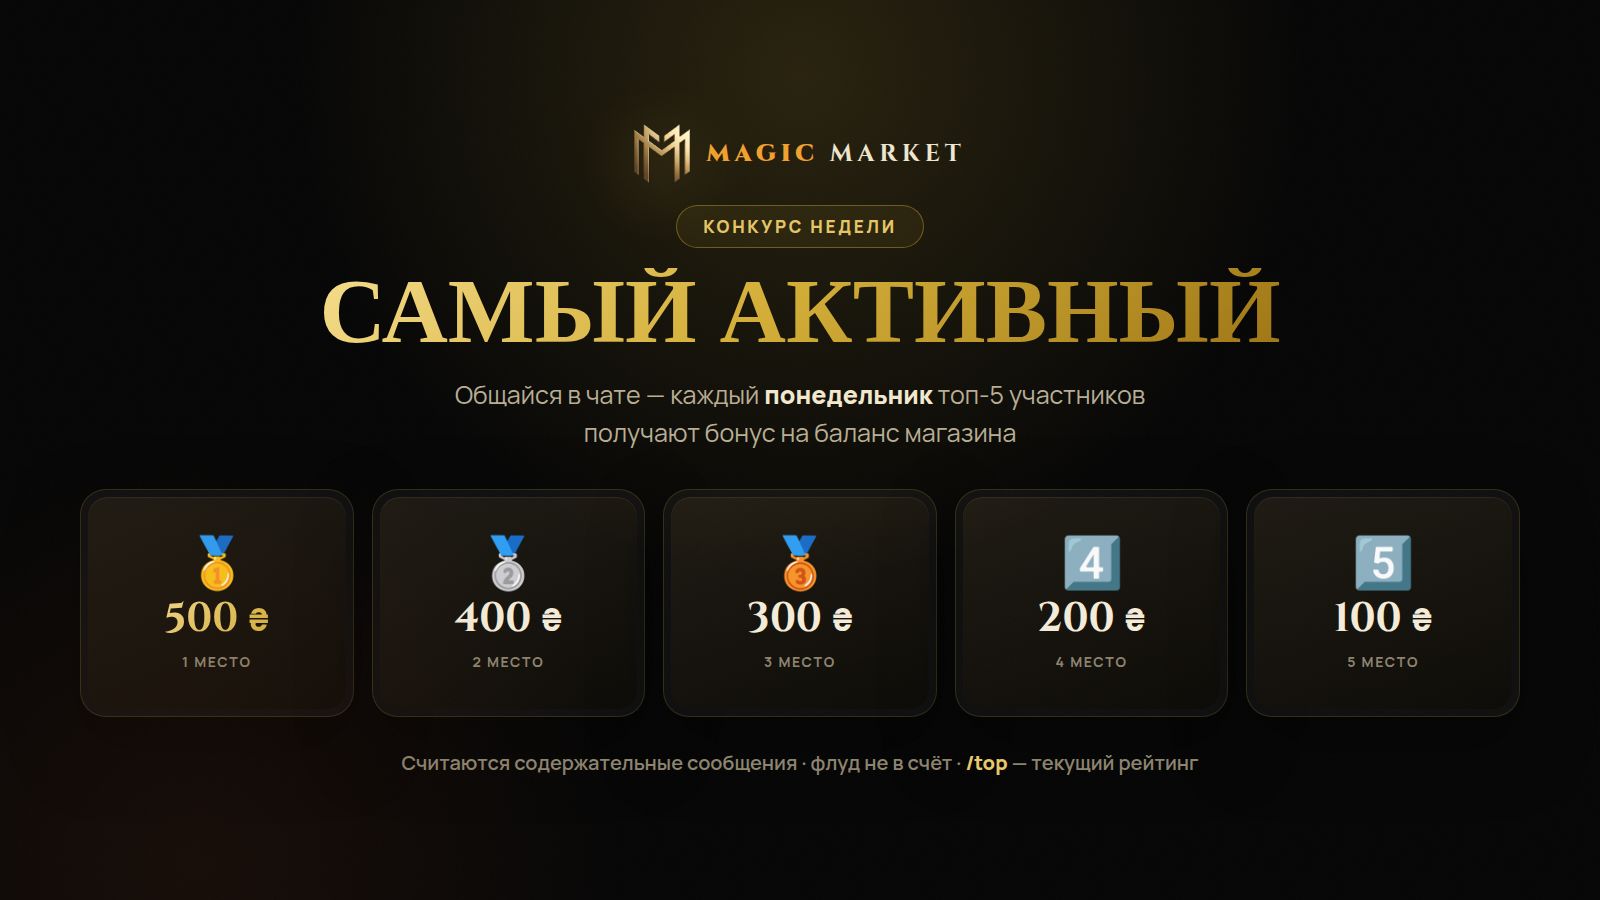
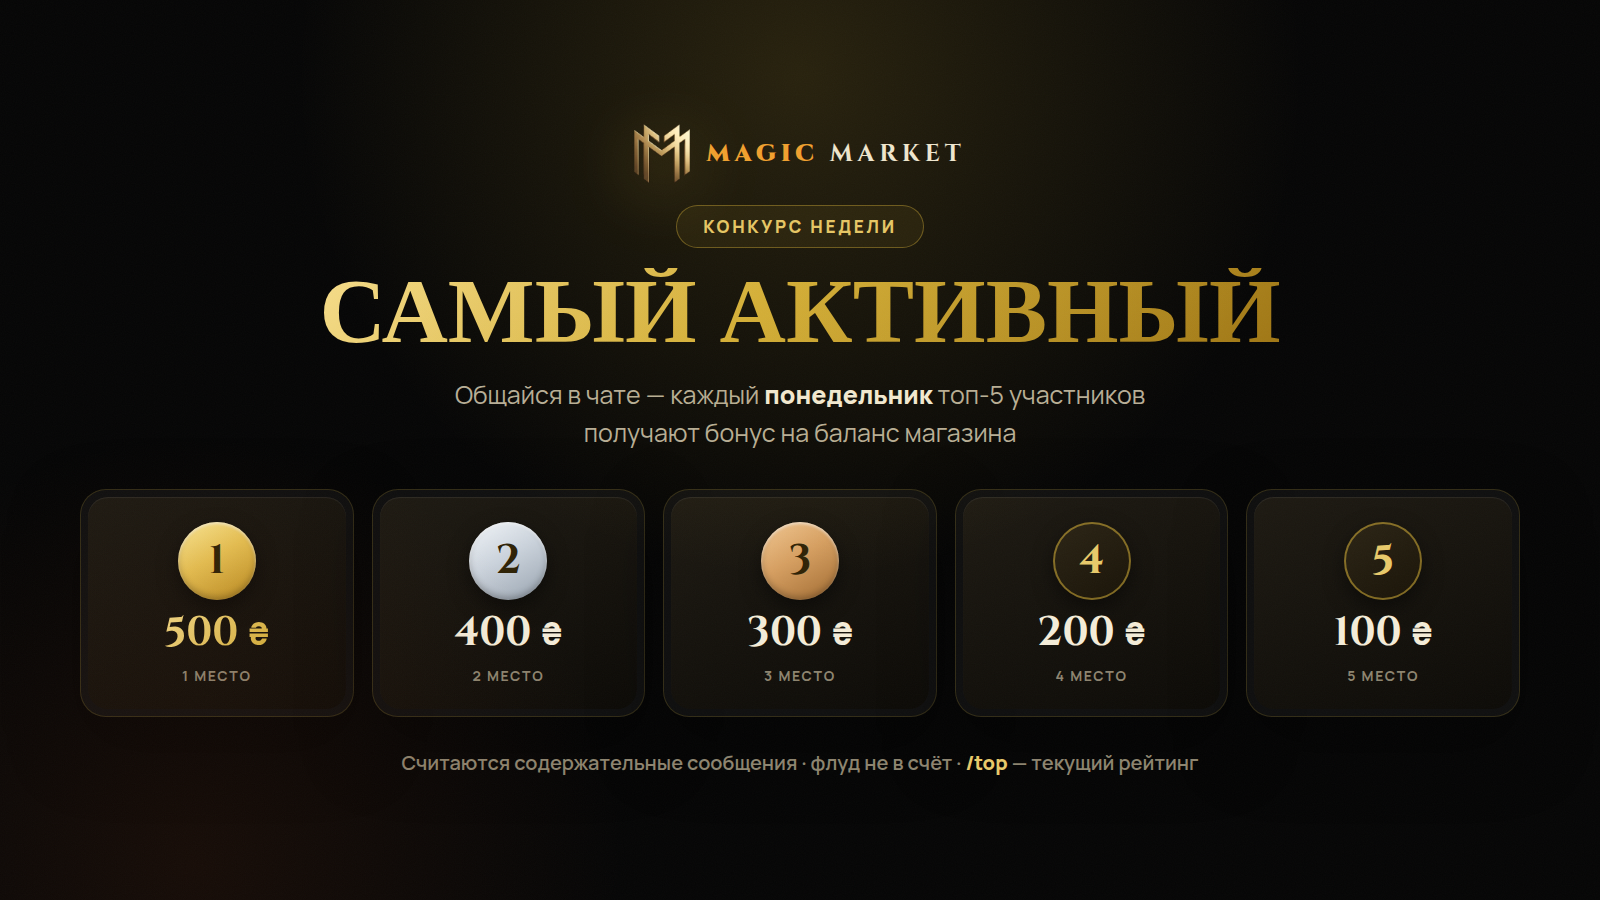
Баннеры активности: цифры вместо эмодзи-медалей и клавиш-цифр (#152)
Заменил эмодзи 🥇🥈🥉4⃣5⃣ на аккуратные металлические кружки с обычными
цифрами (золото/серебро/бронза для 1-3, тёмные с золотым ободком для 4-5) —
и на промо-баннере конкурса, и на баннере итогов недели.

Claude-Session: https://claude.ai/code/session_01Y1zXFtLJnFv2zuHb58MY2K

diff --git a/promo/src/banner_contest.html b/promo/src/banner_contest.html
@@ -26,7 +26,14 @@ body{width:1600px;height:900px;overflow:hidden;position:relative;font-family:'Ma
   box-shadow:0 28px 66px rgba(0,0,0,.5)}
 .core{height:212px;border-radius:20px;background:linear-gradient(160deg,rgba(30,26,18,.94),rgba(12,10,6,.94));
   box-shadow:inset 0 1px 1px rgba(255,255,255,.08);display:flex;flex-direction:column;align-items:center;justify-content:center;gap:6px}
-.medal{font-size:50px;line-height:1}
+.badge{width:78px;height:78px;border-radius:50%;display:flex;align-items:center;justify-content:center;
+  font-family:'Cinzel',serif;font-weight:800;font-size:40px;line-height:1;color:#2e2205;
+  box-shadow:0 8px 20px rgba(0,0,0,.5),inset 0 2px 3px rgba(255,255,255,.55),inset 0 -3px 6px rgba(0,0,0,.25)}
+.b1{background:linear-gradient(150deg,#fce996,#e6c052 45%,#b98a1f)}
+.b2{background:linear-gradient(150deg,#f3f6f9,#cbd3dc 45%,#97a2ae)}
+.b3{background:linear-gradient(150deg,#f2c894,#d69f61 45%,#a06a30)}
+.b4,.b5{background:linear-gradient(150deg,#2b2415,#191307);color:#e8c96a;
+  box-shadow:0 8px 20px rgba(0,0,0,.5),inset 0 0 0 2px rgba(212,175,55,.55)}
 .sum{font-family:'Cinzel',serif;font-weight:800;font-size:40px;color:#f4ecd8;white-space:nowrap}
 .cur{font-family:'Manrope',sans-serif;font-weight:800;font-size:.82em}  /* ₴ в засечках выглядит плохо */
 .place{font-size:14px;letter-spacing:.12em;text-transform:uppercase;color:#8d846f;font-weight:700}
@@ -44,19 +51,19 @@ body{width:1600px;height:900px;overflow:hidden;position:relative;font-family:'Ma
 
 <div class="prizes">
   <div class="shell"><div class="core gold">
-    <div class="medal">🥇</div><div class="sum">500 <span class="cur">₴</span></div><div class="place">1 место</div>
+    <div class="badge b1">1</div><div class="sum">500 <span class="cur">₴</span></div><div class="place">1 место</div>
   </div></div>
   <div class="shell"><div class="core">
-    <div class="medal">🥈</div><div class="sum">400 <span class="cur">₴</span></div><div class="place">2 место</div>
+    <div class="badge b2">2</div><div class="sum">400 <span class="cur">₴</span></div><div class="place">2 место</div>
   </div></div>
   <div class="shell"><div class="core">
-    <div class="medal">🥉</div><div class="sum">300 <span class="cur">₴</span></div><div class="place">3 место</div>
+    <div class="badge b3">3</div><div class="sum">300 <span class="cur">₴</span></div><div class="place">3 место</div>
   </div></div>
   <div class="shell"><div class="core">
-    <div class="medal">4⃣</div><div class="sum">200 <span class="cur">₴</span></div><div class="place">4 место</div>
+    <div class="badge b4">4</div><div class="sum">200 <span class="cur">₴</span></div><div class="place">4 место</div>
   </div></div>
   <div class="shell"><div class="core">
-    <div class="medal">5⃣</div><div class="sum">100 <span class="cur">₴</span></div><div class="place">5 место</div>
+    <div class="badge b5">5</div><div class="sum">100 <span class="cur">₴</span></div><div class="place">5 место</div>
   </div></div>
 </div>
 

diff --git a/promo/src/banner_award.html b/promo/src/banner_award.html
@@ -24,7 +24,14 @@ body{width:1600px;height:900px;overflow:hidden;position:relative;font-family:'Ma
 .row{position:absolute;left:96px;width:760px;height:70px;display:flex;align-items:center;gap:16px;
   background:rgba(255,255,255,.045);border:1px solid rgba(212,175,55,.18);border-radius:18px;
   padding:0 24px;box-shadow:inset 0 1px 1px rgba(255,255,255,.07)}
-.row .m{font-size:32px;line-height:1}
+.badge{width:52px;height:52px;flex:none;border-radius:50%;display:flex;align-items:center;justify-content:center;
+  font-family:'Cinzel',serif;font-weight:800;font-size:27px;line-height:1;color:#2e2205;
+  box-shadow:0 4px 11px rgba(0,0,0,.45),inset 0 1px 2px rgba(255,255,255,.55),inset 0 -2px 5px rgba(0,0,0,.25)}
+.b1{background:linear-gradient(150deg,#fce996,#e6c052 45%,#b98a1f)}
+.b2{background:linear-gradient(150deg,#f3f6f9,#cbd3dc 45%,#97a2ae)}
+.b3{background:linear-gradient(150deg,#f2c894,#d69f61 45%,#a06a30)}
+.b4,.b5{background:linear-gradient(150deg,#2b2415,#191307);color:#e8c96a;
+  box-shadow:0 4px 11px rgba(0,0,0,.45),inset 0 0 0 2px rgba(212,175,55,.55)}
 .row .s{margin-left:auto;font-family:'Cinzel',serif;font-weight:800;font-size:28px;color:#f4ecd8}
 .cur{font-family:'Manrope',sans-serif;font-weight:800;font-size:.82em}  /* ₴ в засечках выглядит плохо */
 .row.first .s{background:linear-gradient(135deg,#f6dd8b,#d4af37);-webkit-background-clip:text;background-clip:text;color:transparent}
@@ -43,11 +50,11 @@ body{width:1600px;height:900px;overflow:hidden;position:relative;font-family:'Ma
 </div>
 
 <!-- строки победителей: координаты фиксированы, имена впечатывает Pillow -->
-<div class="row first" style="top:466px"><span class="m">🥇</span><span class="s">500 <span class="cur">₴</span></span></div>
-<div class="row" style="top:548px"><span class="m">🥈</span><span class="s">400 <span class="cur">₴</span></span></div>
-<div class="row" style="top:630px"><span class="m">🥉</span><span class="s">300 <span class="cur">₴</span></span></div>
-<div class="row" style="top:712px"><span class="m">4⃣</span><span class="s">200 <span class="cur">₴</span></span></div>
-<div class="row" style="top:794px"><span class="m">5⃣</span><span class="s">100 <span class="cur">₴</span></span></div>
+<div class="row first" style="top:466px"><div class="badge b1">1</div><span class="s">500 <span class="cur">₴</span></span></div>
+<div class="row" style="top:548px"><div class="badge b2">2</div><span class="s">400 <span class="cur">₴</span></span></div>
+<div class="row" style="top:630px"><div class="badge b3">3</div><span class="s">300 <span class="cur">₴</span></span></div>
+<div class="row" style="top:712px"><div class="badge b4">4</div><span class="s">200 <span class="cur">₴</span></span></div>
+<div class="row" style="top:794px"><div class="badge b5">5</div><span class="s">100 <span class="cur">₴</span></span></div>
 
 <div class="right">
   <div class="cup">🏆</div>
